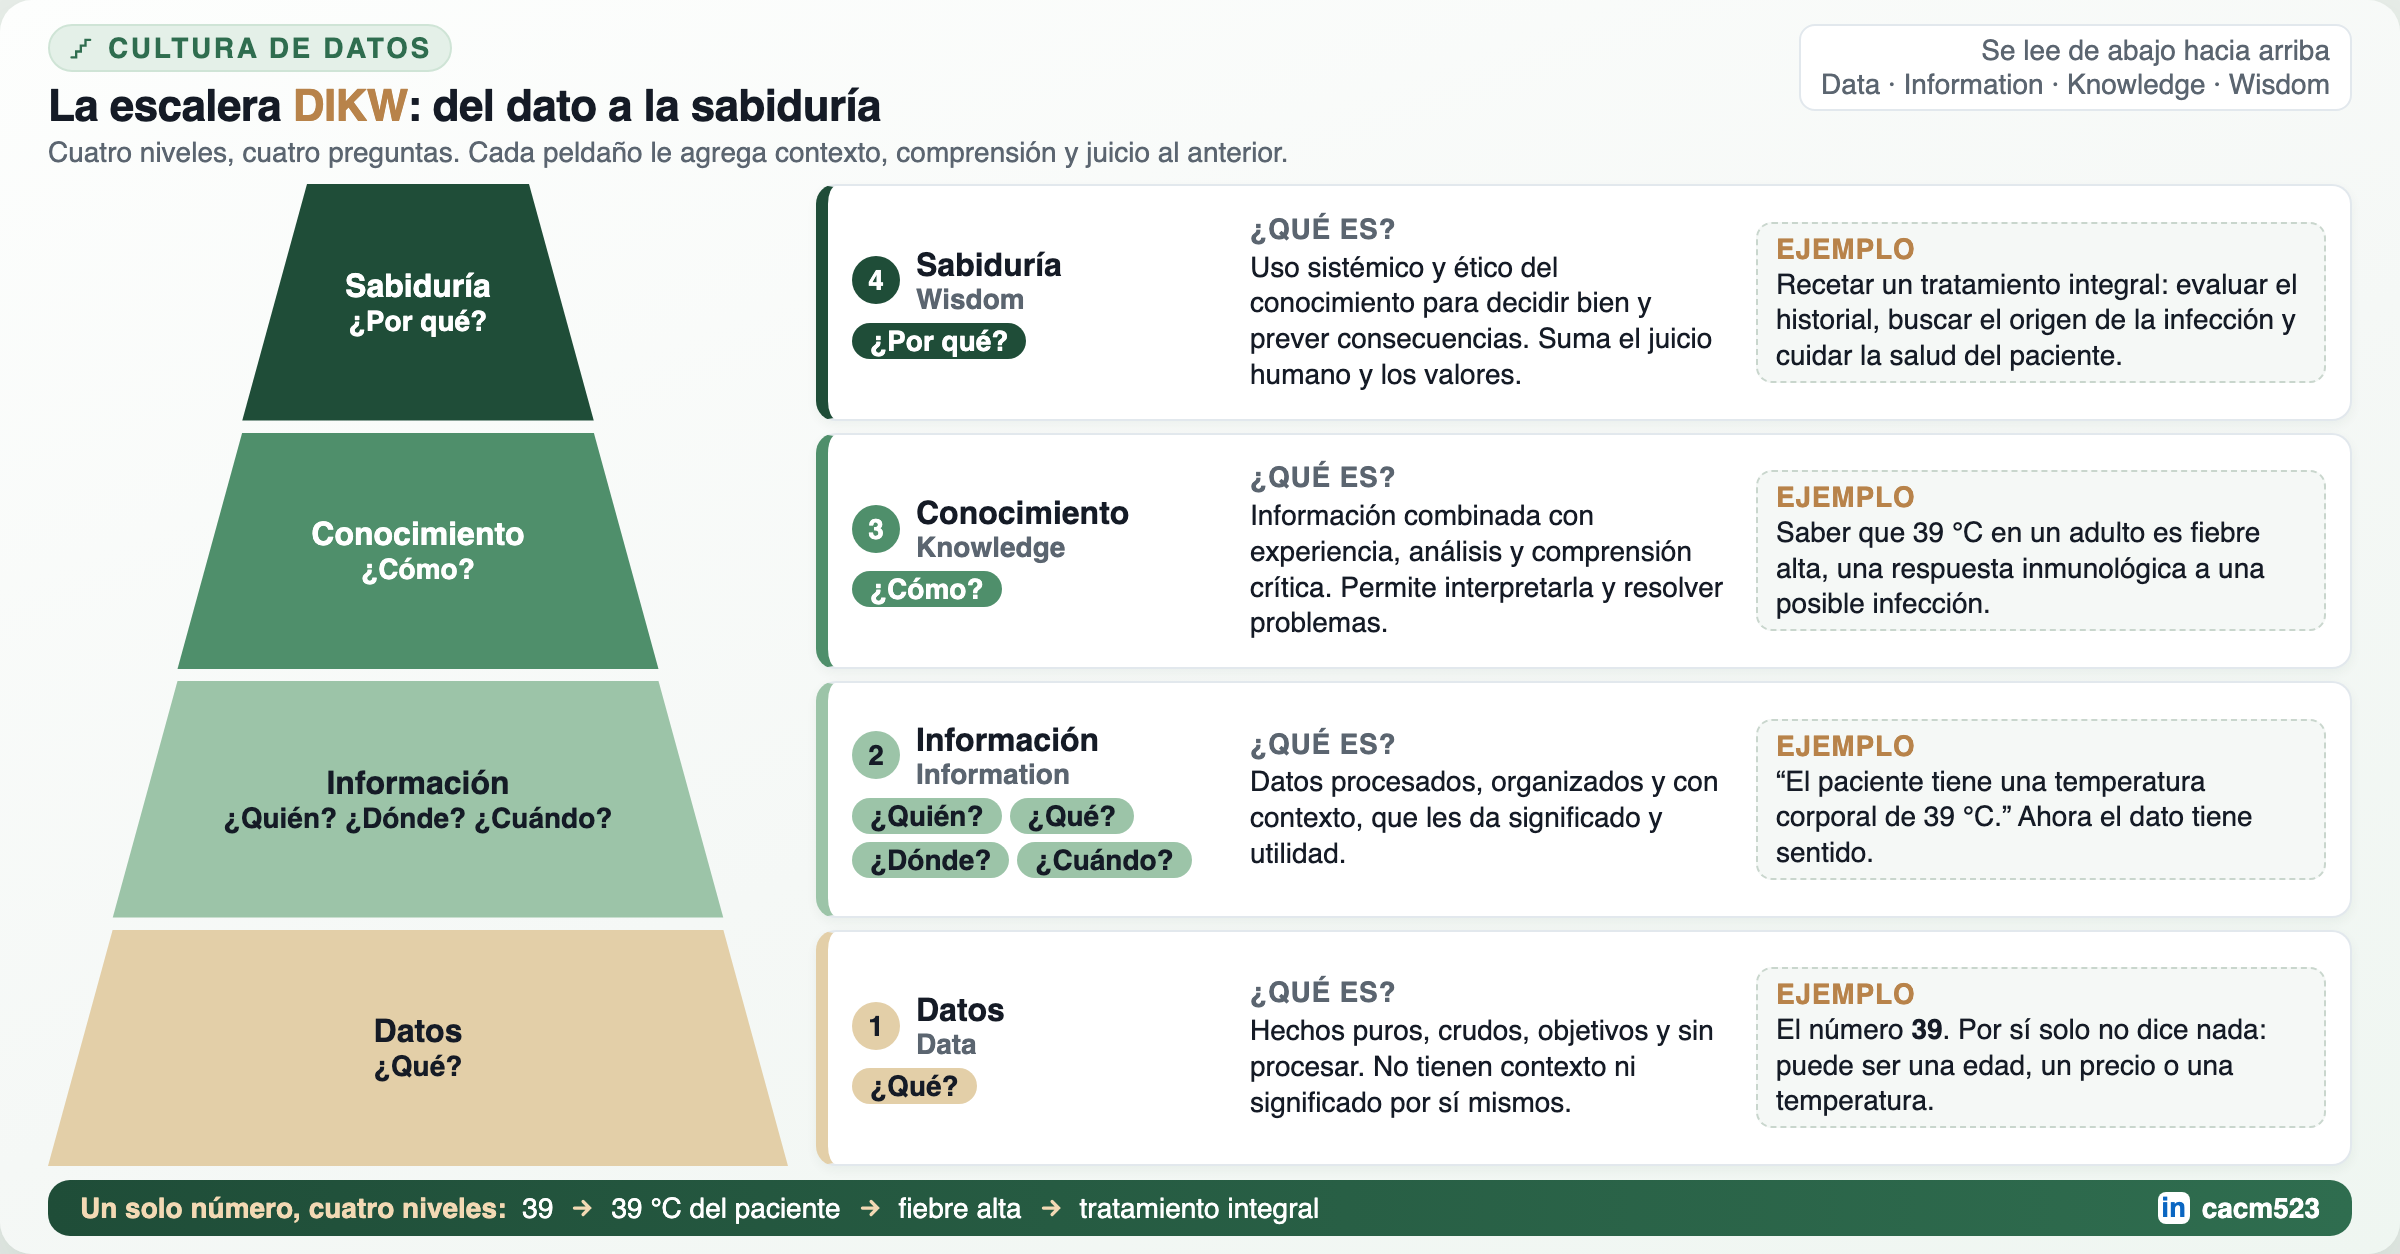
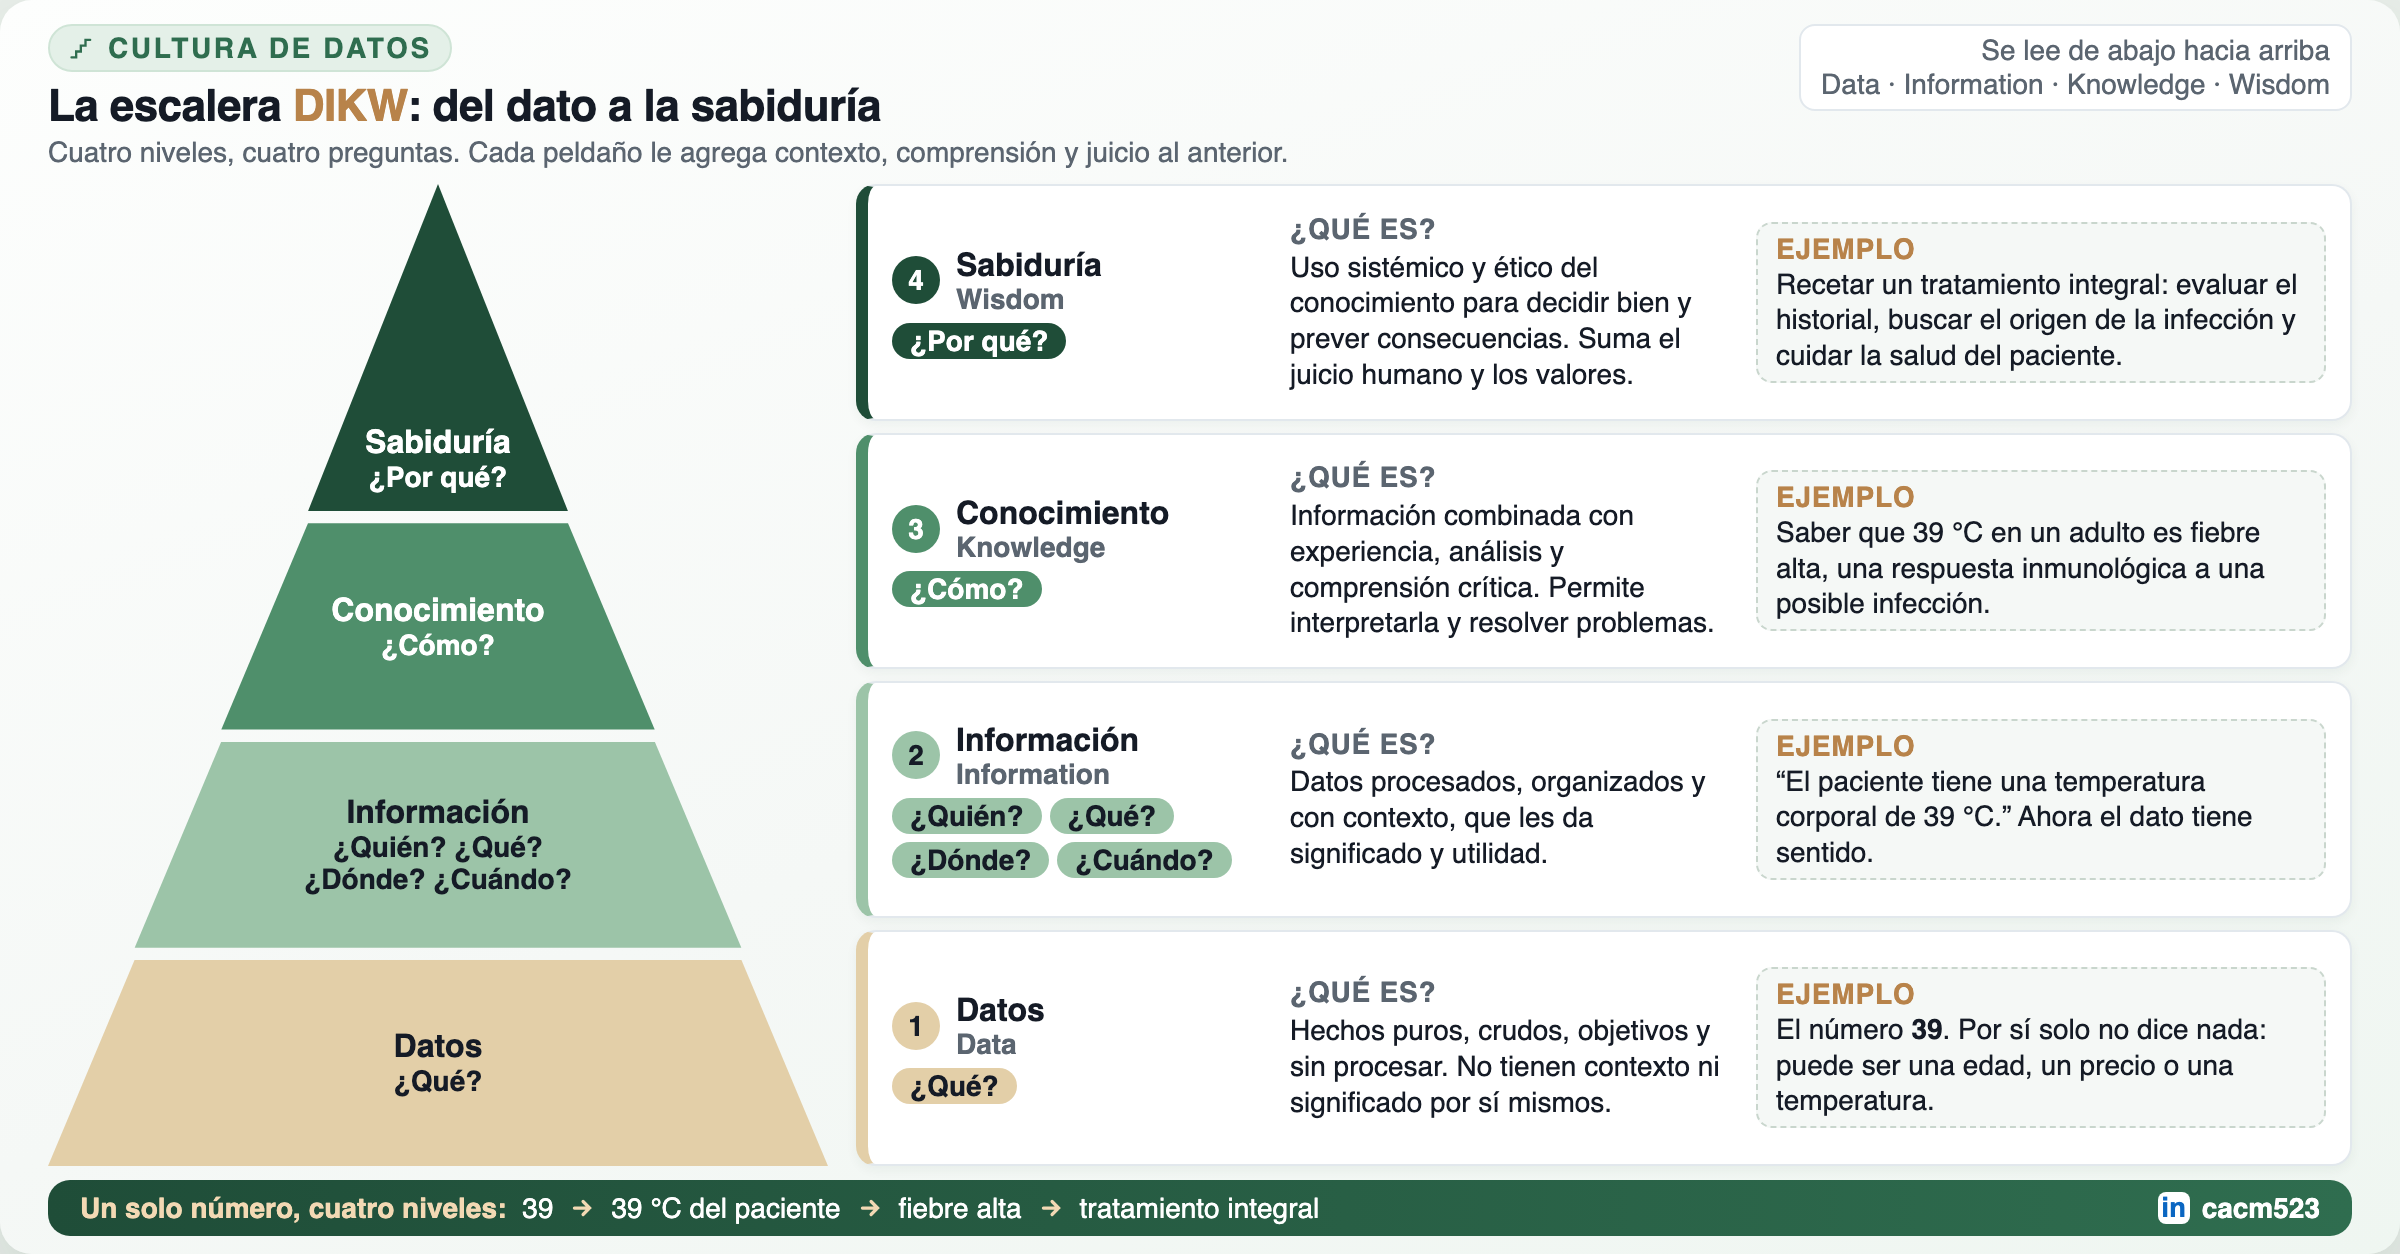
DIKW: punta de pirámide en pico; pirámides alineadas adelantada a 2026-10-08

diff --git a/Construidos/Cultura_Datos/dikw-escalera-datos-sabiduria.html b/Construidos/Cultura_Datos/dikw-escalera-datos-sabiduria.html
@@ -14,14 +14,14 @@ body{min-height:627px;display:flex;align-items:center;justify-content:center;pad
 h1{font-size:22px;margin:0 0 2px;font-weight:800;letter-spacing:-.3px}h1 span{color:var(--tierra)}
 .sub{margin:0;font-size:14px;color:var(--muted);line-height:1.25;max-width:720px}
 .hint{flex:none;font-size:14px;color:var(--muted);background:#fff;border:1px solid var(--line);border-radius:8px;padding:4px 10px;text-align:right;line-height:1.2}
-.main{flex:1;display:grid;grid-template-columns:370px 1fr;gap:14px;min-height:0}
+.main{flex:1;display:grid;grid-template-columns:390px 1fr;gap:14px;min-height:0}
 .pyr,.cards{display:flex;flex-direction:column;gap:6px;min-height:0}
 .tier{flex:1;display:flex;flex-direction:column;align-items:center;justify-content:center;text-align:center;line-height:1.15}
 .tier b{font-size:16px;font-weight:800}.tier span{font-size:14px;font-weight:700}
-.tier.k4{background:var(--t4);color:#fff;clip-path:polygon(35% 0,65% 0,73.75% 100%,26.25% 100%)}
-.tier.k3{background:var(--t3);color:#fff;clip-path:polygon(26.25% 0,73.75% 0,82.5% 100%,17.5% 100%)}
-.tier.k2{background:var(--t2);color:var(--ink);clip-path:polygon(17.5% 0,82.5% 0,91.25% 100%,8.75% 100%)}
-.tier.k1{background:var(--t1);color:var(--ink);clip-path:polygon(8.75% 0,91.25% 0,100% 100%,0 100%)}
+.tier.k4{background:var(--t4);color:#fff;clip-path:polygon(50% 0,66.67% 100%,33.33% 100%);flex:1.5;justify-content:flex-end;padding-bottom:9px}
+.tier.k3{background:var(--t3);color:#fff;clip-path:polygon(33.33% 0,66.67% 0,77.78% 100%,22.22% 100%)}
+.tier.k2{background:var(--t2);color:var(--ink);clip-path:polygon(22.22% 0,77.78% 0,88.89% 100%,11.11% 100%)}
+.tier.k1{background:var(--t1);color:var(--ink);clip-path:polygon(11.11% 0,88.89% 0,100% 100%,0 100%)}
 .card{flex:1;display:grid;grid-template-columns:185px 1fr 285px;gap:14px;align-items:center;background:#fff;border:1px solid var(--line);border-left:6px solid var(--c);border-radius:10px;padding:5px 12px;box-shadow:0 2px 6px rgba(20,50,35,.05)}
 .k4c{--c:var(--t4)}.k3c{--c:var(--t3)}.k2c{--c:var(--t2)}.k1c{--c:var(--t1)}
 .nm{display:flex;align-items:center;gap:8px}
@@ -48,7 +48,7 @@ h1{font-size:22px;margin:0 0 2px;font-weight:800;letter-spacing:-.3px}h1 span{co
 <div class="pyr">
 <div class="tier k4"><b>Sabiduría</b><span>¿Por qué?</span></div>
 <div class="tier k3"><b>Conocimiento</b><span>¿Cómo?</span></div>
-<div class="tier k2"><b>Información</b><span>¿Quién? ¿Dónde? ¿Cuándo?</span></div>
+<div class="tier k2"><b>Información</b><span>¿Quién? ¿Qué?<br>¿Dónde? ¿Cuándo?</span></div>
 <div class="tier k1"><b>Datos</b><span>¿Qué?</span></div></div>
 <div class="cards">
 <div class="card k4c"><div><div class="nm"><span class="num">4</span><div><b>Sabiduría</b><small>Wisdom</small></div></div><div class="q"><span>¿Por qué?</span></div></div>

diff --git a/Construidos/Cultura_Datos/dikw-escalera-datos-sabiduria.prompt.md b/Construidos/Cultura_Datos/dikw-escalera-datos-sabiduria.prompt.md
@@ -13,3 +13,5 @@
 **Relación con piezas existentes**: `Cultura_Datos/escalera-valor-analitico` trata la madurez analítica (descriptiva/diagnóstica/predictiva/prescriptiva) — tópico distinto, se crea pieza nueva.
 
 **Catálogo**: `categoriaPrincipal: "analisis-de-datos"`, `temas: ["cultura-dato", "ciencia-datos"]`. Publicación pedida por el usuario: a más tardar el 2026-10-08 (prevalece sobre la cola normal de +2 días).
+
+**Ajustes (2026-10-07)**: punta de la pirámide en vértice real (antes truncada); `fechaPublicacion` adelantada a 2026-10-08 por pedido del usuario (publicar ambas piezas de pirámides mañana).
